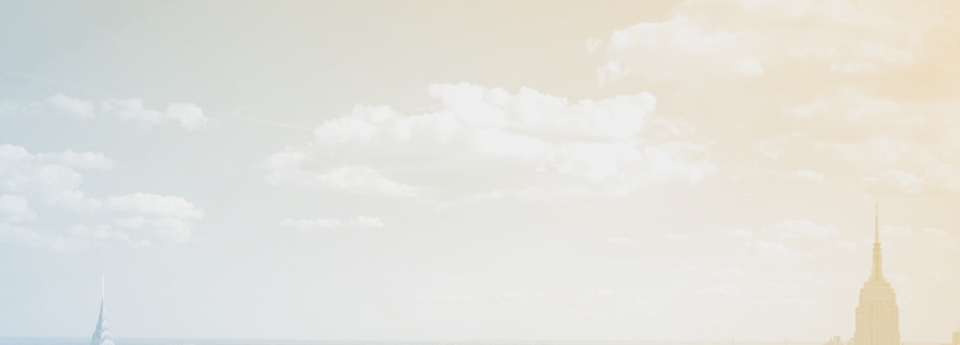
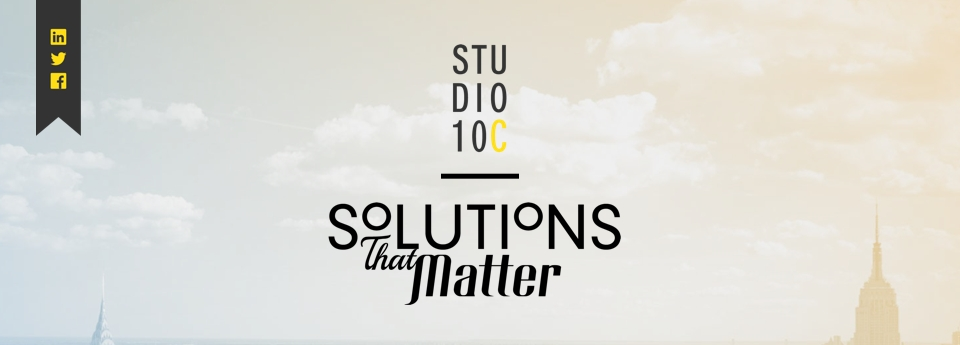
fixed css deploy issues

diff --git a/source/index.html b/source/index.html
@@ -3,19 +3,14 @@ layout: default
 ---
 
 <div class="header_pane pane">
-  <img class="social_flags_header_img" src="images/social_flags_header.png">
-  <img class="logo_header_img" src="images/logo.png">
-  <div class="black_separator"></div>
-  <img class="tagline_img" src="images/tagline.png">
 </div>
 <div class="intro_pane pane">
-  <img class="yuval_picture" src="images/yuval_picture.png">
-  <img class="ron_picture" src="images/ron_picture.png">
-  <img class="yuval_linkedin_icon" src="images/linkedin_icon.png">
-  <img class="ron_linkedin_icon" src="images/linkedin_icon.png">
 </div>
 <div class="about_us_pane pane">
-Test
+  <img class="yuval_photo" src="images/yuval_photo.png">
+  <img class="ron_photo" src="images/ron_photo.png">
+  <img class="yuval_linkedin_icon" src="images/linkedin_icon.png">
+  <img class="ron_linkedin_icon" src="images/linkedin_icon.png">
 </div>
 <div class="how_does_it_work_pane pane">
 Test

diff --git a/sass/custom/_styles.scss b/sass/custom/_styles.scss
@@ -19,31 +19,6 @@
 	background-image: url('/images/header_pane.jpg');
 	height: 346px;
 	overflow: visible;
-
-	.social_flags_header_img {
-		top: 0px;
-		left: 30px;
-	}
-
-	.logo_header_img {
-		top: 50px;
-		left: 450px;
-	}
-
-	.black_separator {
-		width: 80px;
-		height: 5px;
-		background-color: black;
-		position: absolute;
-		left: 440px;
-		top: 180px;
-	}
-
-	.tagline_img {
-		left: 333px;
-		top: 200px;
-	}
-
 }
 
 .pin_icon_img {
@@ -64,6 +39,11 @@
 .about_us_pane {
 	background-image: url('/images/about_us_pane.jpg');
 	height: 495px;
+	.ron_photo {
+		left: 700px;
+		top: 80px;
+	}
+
 }
 
 .how_does_it_work_pane {

diff --git a/config.rb b/config.rb
@@ -4,11 +4,11 @@ require 'sass-globbing'
 project_type = :stand_alone
 
 # Publishing paths
-http_path = "/github/"
-http_images_path = "/github/images"
+http_path = "/"
+http_images_path = "/images"
 http_generated_images_path = "/images"
-http_fonts_path = "/github/fonts"
-css_dir = "public/github/stylesheets"
+http_fonts_path = "/fonts"
+css_dir = "public/stylesheets"
 
 # Local development paths
 sass_dir = "sass"
